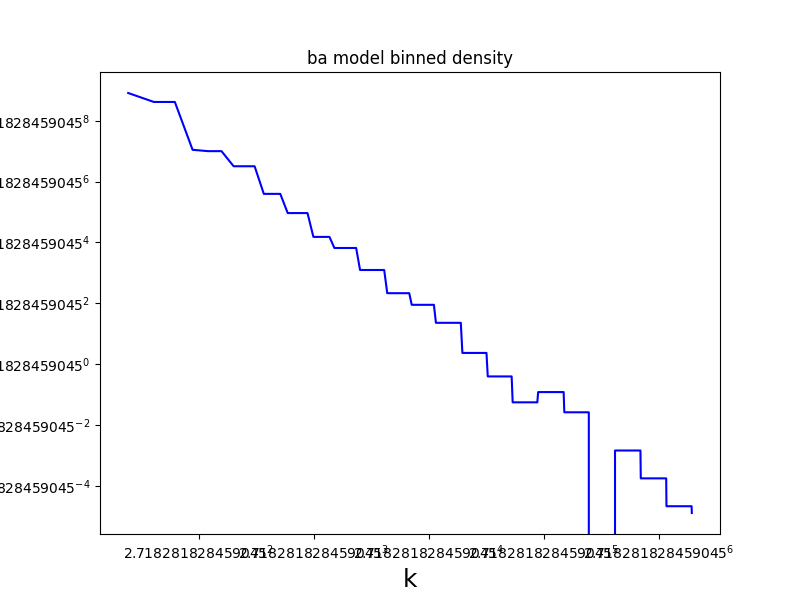
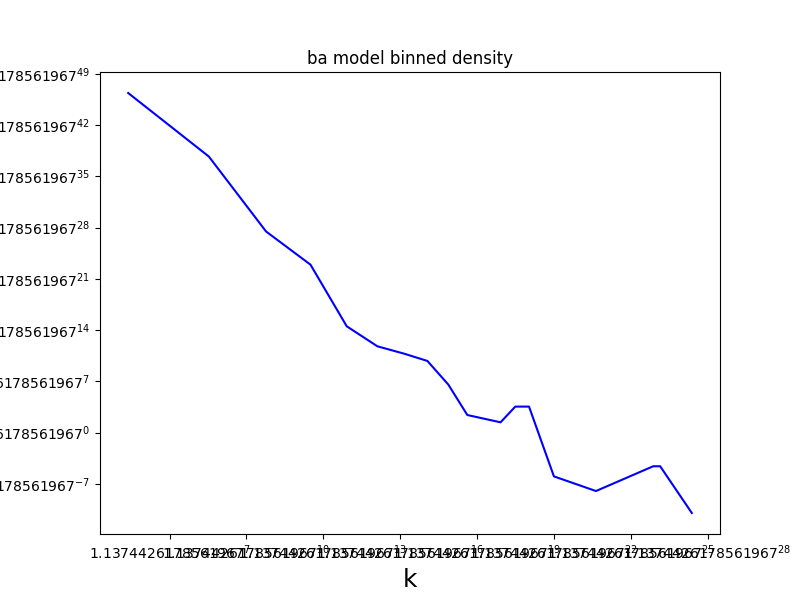
3 12

diff --git a/Networks3/ba.py b/Networks3/ba.py
@@ -87,11 +87,11 @@ def run_ba_model(size: int, kernel_size: int):
 
     plt.figure(figsize=(8, 6))
     plt.plot(sqrs, ratios, "-b")
-    plt.xlabel("sqrt(size)", fontsize=18)
-    plt.ylabel("max_k / min_k", fontsize=18)
-    plt.title("ba model max_k / min_k")
+    plt.xlabel("Square Root of N", fontsize=18)
+    plt.ylabel("Max and Min Degrees Ratio", fontsize=18)
+    plt.title("ba square root of size to max and min degrees ratio")
     #plt.show()
-    plt.savefig("ba_model_max_k_min_k.png")
+    plt.savefig("ba_model_square_root_n_ratio.png")
 
     dict_degrees: dict[int, int] = {}
 
@@ -108,26 +108,34 @@ def run_ba_model(size: int, kernel_size: int):
     max_k: int = list_degrees[-1]
     min_k: int = list_degrees[0]
 
-    ks: list[int] = [0] * (max_k - min_k + 1)
-
-    pks: list[float] = [0.0] * (max_k - min_k + 1)
+    pks: list[tuple[int, float]] = []
 
     degrees_count: int = sum(dict_degrees.values())
 
     for k in range(min_k, max_k + 1):
-        count_k: int = dict_degrees[k] if k in dict_degrees else 0
+        count_k: int = 0
+        
+        if k in dict_degrees:
+            count_k = dict_degrees[k]
 
-        pk: float = count_k / degrees_count if degrees_count > 0 else 0.0
+            if count_k > 0:
+                pk: float = count_k / degrees_count
 
-        index_k: int = k - min_k
+                pks.append((k, pk))
 
-        ks[index_k] = k
-        pks[index_k] = pk
+    ks: list[int] = [0] * len(pks)
+    pks_values: list[float] = [0.0] * len(pks)
+
+    for i in range(len(pks)):
+        tup: tuple[int, float] = pks[i]
+
+        ks[i] = tup[0]
+        pks_values[i] = tup[1]
 
     plt.figure(figsize=(8, 6))
 
     #plt.plot(node_indices, ks, "-bD")
-    plt.loglog(ks, pks, "-b")
+    plt.loglog(ks, pks_values, "-b")
     plt.gca().set_xscale('log', base=np.e)
     plt.gca().set_yscale('log', base=np.e)
 
@@ -167,18 +175,18 @@ def run_ba_model(size: int, kernel_size: int):
 
     print(f"alpha={alpha}")
 
-    bins: list[tuple[float, int]] = [[]] * (n + 1)
+    bins: list[tuple[float, list[Node]]] = [[]] * (n + 1)
 
     for i in range(n + 1):
         threshold: float = min_k * (alpha ** i)
 
         print(f"threshold[{i}]={threshold}")
 
-        bins[i] = (threshold, 0)
+        bins[i] = (threshold, [])
 
     for node in list_nodes:
         k_i: int = len(node.neighbors)
-        
+
         ratio_i: float = k_i / min_k
 
         log_ratio_i: float = math.log(ratio_i, alpha)
@@ -186,14 +194,16 @@ def run_ba_model(size: int, kernel_size: int):
         index_bin: int = int(log_ratio_i)
 
         if index_bin < len(bins):
-            tup: tuple[float, int] = bins[index_bin]
+            tup: tuple[float, list[Node]] = bins[index_bin]
 
-            bins[index_bin] = (tup[0], tup[1] + 1)
+            list_nodes: list[Node] = tup[1]
+
+            list_nodes.append(node)
         else:
             print("no bin found!")
             return
         
-    bin_densities: list[float] = [0.0] * len(bins)
+    bin_densities: dict[int, float] = {}
 
     for i in range(len(bins)):
         tup: tuple[float, int] = bins[i]
@@ -205,42 +215,56 @@ def run_ba_model(size: int, kernel_size: int):
         k_i: float = tup[0]
         k_next: float = next_tup[0] if next_tup is not None else min_k * (alpha ** (n + 1))
 
-        bin_n: int = tup[1]
+        list_nodes: list[Node] = tup[1]
+
+        bin_n: int = len(list_nodes)
 
         width = k_next - k_i
 
-        bin_densities[i] = bin_n / width if width > 0.0 else 0.0
-        
-    k_bins: list[tuple] = [0.0] * (max_k - min_k + 1)
+        if bin_n > 0:
+            density: float = bin_n / width
+            bin_densities[i] = density
 
-    for k in range(min_k, max_k + 1):
+    print(f"len bin_densities={len(bin_densities)}, len list degrees={len(list_degrees)}")
+        
+    k_bins: list[tuple[int, float]] = []
+
+    for i in range(len(list_degrees)):
+        k: int = list_degrees[i]
+
         ratio_k: float = k / min_k
 
         log_ratio_k: float = math.log(ratio_k, alpha)
 
         bin_index: int = int(log_ratio_k)
 
-        bin: tuple[float, int] = bins[bin_index] if bin_index < len(bins) else None
+        if bin_index in bin_densities.keys():
+            k_density: float = bin_densities[bin_index]
 
-        bin_n: int = bin[1] if bin is not None else 0
-
-        index_k: int = k - min_k
-
-        k_density = bin_densities[bin_index] if bin_index < len(bins) else 0.0
-
-        k_bins[index_k] = (k, k_density)
+            k_bins.append((k, k_density))
+        else:
+            print(f"No density for k={k} (bin_index={bin_index})")
+            return
 
     plt.figure(figsize=(8, 6))
 
     xs: list[float] = [0] * len(k_bins)
     ys: list[float] = [0] * len(k_bins)
+
     for i in range(len(k_bins)):
-        xs[i] = k_bins[i][0]
-        ys[i] = k_bins[i][1]
+        k_bin: tuple[int, float] = k_bins[i]
+
+        k: int = k_bin[0]
+        density: float = k_bin[1]
+
+        xs[i] = k
+        ys[i] = density
+
+    print(f"len xs={len(xs)}, len ys={len(ys)}, len k bins={len(k_bins)}")
 
     plt.loglog(xs, ys, "-b")
-    plt.gca().set_xscale('log', base=np.e)
-    plt.gca().set_yscale('log', base=np.e)
+    plt.gca().set_xscale('log', base=alpha)
+    plt.gca().set_yscale('log', base=alpha)
     
     plt.xlabel("k", fontsize=18)
     plt.ylabel("density", fontsize=18)
@@ -298,4 +322,4 @@ def create_kernel(kernel_size: int) -> list[Node]:
 
     return list_of_nodes
 
-run_ba_model(22222, 4)
+run_ba_model(222, 2)
